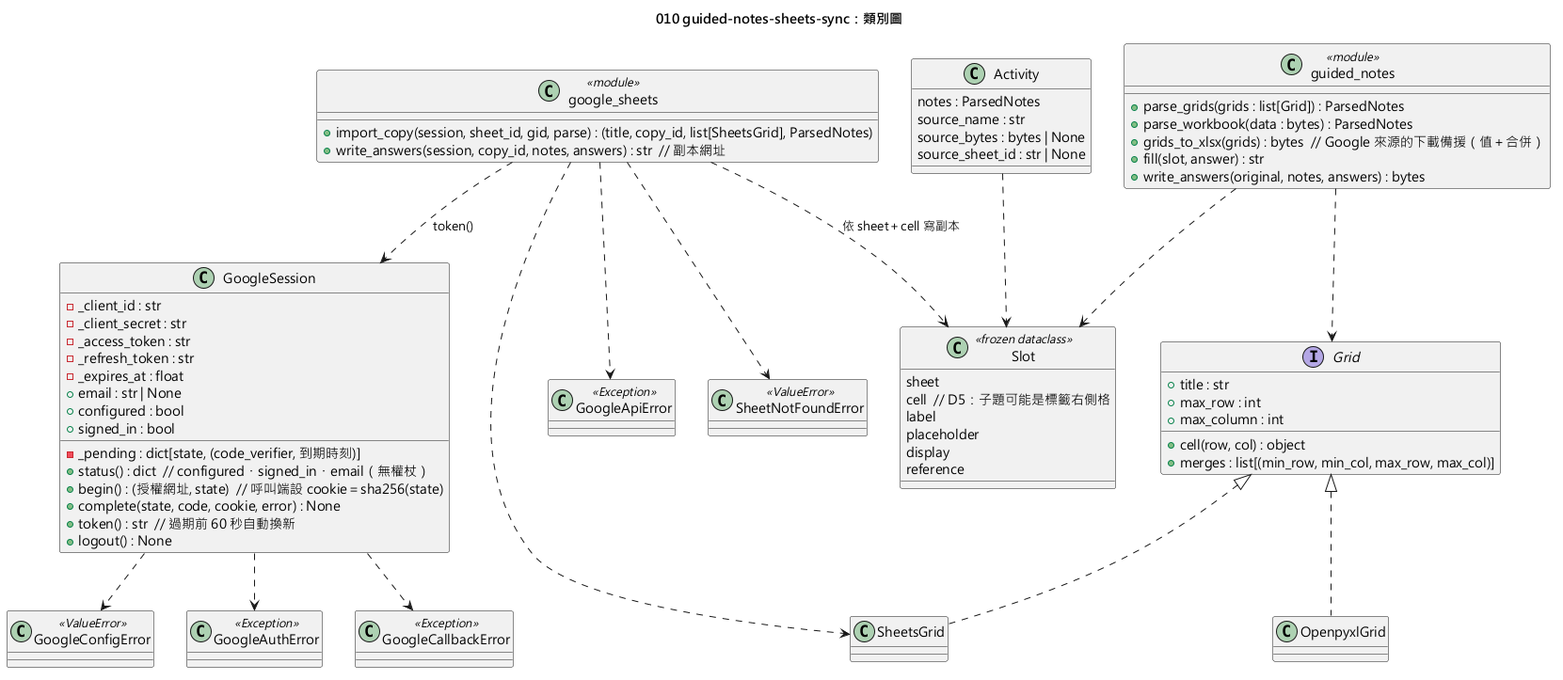
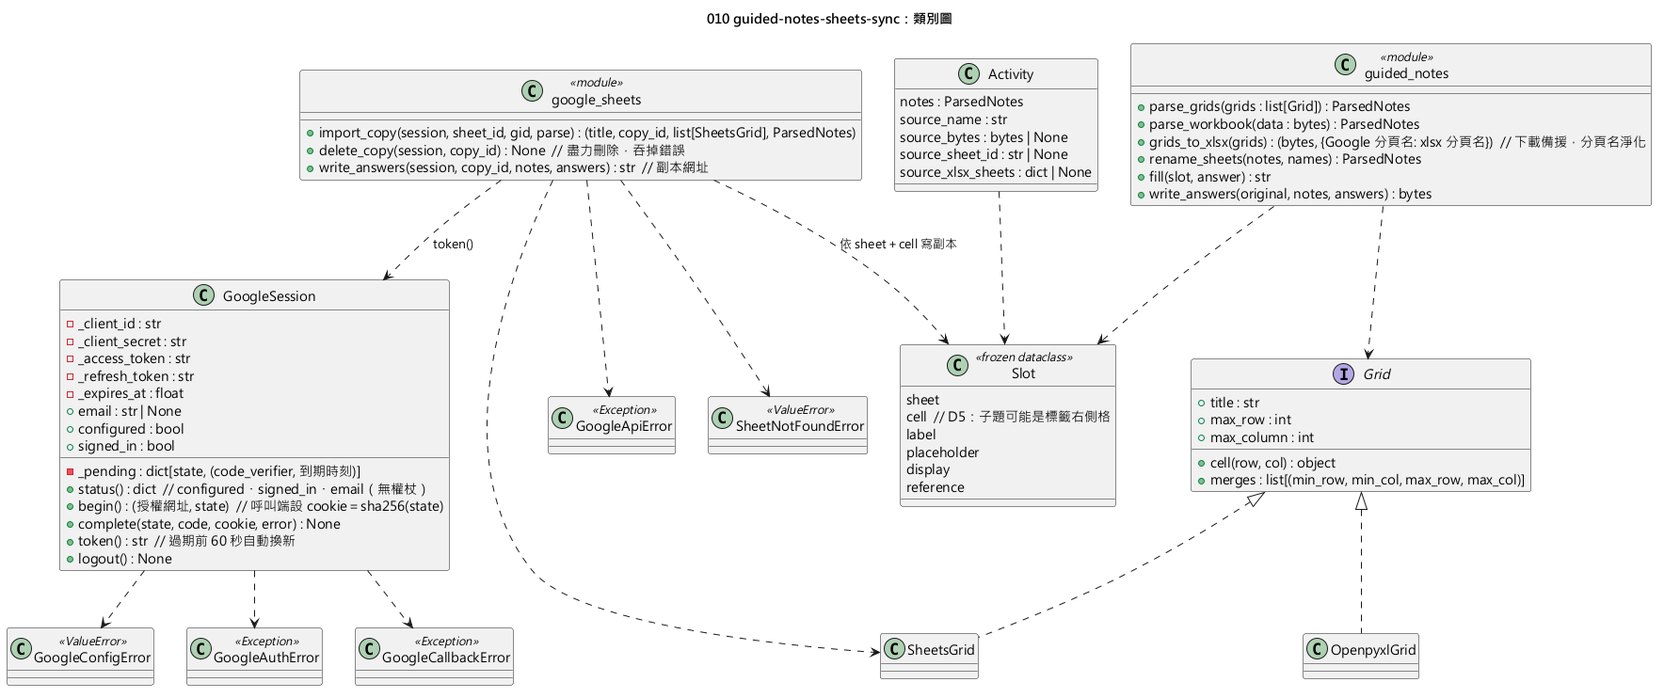
fix(server): [CORE] guided-notes-sheets-sync 實作輪評審藥方
紅隊（CLEARED 0B/1M/1m）＋架構（NOT CLEARED 1B/0M/3m）同抽：Google 分頁名含 / : * ? [ ]
時 xlsx 備援轉檔失敗、整個匯入回 422 並留孤兒副本。

- grids_to_xlsx 淨化分頁名並回傳對照表，下載備援以對照名寫回；寫回 Google 仍用原名
- 副本建立後任何採用前失敗都盡力刪副本（google_sheets.delete_copy）
- .env 以 utf-8-sig 讀（BOM）
- 實作偏離回稿：換新失敗立即 401、gid 複製前檢查；契約、稿、圖同步
- 探針 v1.2 六步重跑皆 OK（probes/results/2026-11-17-google-sheets-v1.2.txt）
- 新回歸測試 5 筆＋變異實錄；make gate 兩組皆綠（266 passed）

diff --git a/server/quiz_server/guided_notes.py b/server/quiz_server/guided_notes.py
@@ -9,7 +9,7 @@ import io
 import re
 import unicodedata
 from collections.abc import Sequence
-from dataclasses import dataclass
+from dataclasses import dataclass, replace
 from typing import Protocol
 
 import openpyxl
@@ -240,12 +240,33 @@ def _parse_sheet(grid: Grid, merged: dict, header: tuple[int, int, int, int | No
     return ParsedNotes(grid.title, questions)
 
 
-def grids_to_xlsx(grids: Sequence[Grid]) -> bytes:
-    """格狀資料轉成只含值與合併的 xlsx（Google 來源的下載備援，guided-notes-sheets-sync D4）。"""
+XLSX_BAD_TITLE = re.compile(r"[\\/:*?\[\]]")
+XLSX_TITLE_MAX = 31
+
+
+def _xlsx_title(title: str, used: set[str]) -> str:
+    """Google 允許、xlsx 不允許的分頁名稱字元換成「_」並截到 31 字；重名加序號（實作輪評審）。"""
+    base = XLSX_BAD_TITLE.sub("_", title).strip("'")[:XLSX_TITLE_MAX] or "工作表"
+    name, n = base, 2
+    while name.lower() in used:
+        suffix = f"_{n}"
+        name, n = base[: XLSX_TITLE_MAX - len(suffix)] + suffix, n + 1
+    used.add(name.lower())
+    return name
+
+
+def grids_to_xlsx(grids: Sequence[Grid]) -> tuple[bytes, dict[str, str]]:
+    """格狀資料轉成只含值與合併的 xlsx（Google 來源的下載備援，guided-notes-sheets-sync D4）。
+
+    回傳 (xlsx, {Google 分頁名: xlsx 分頁名})；寫回 Google 仍用原名，只有下載備援用對照後的名稱。
+    """
     wb = openpyxl.Workbook()
     wb.remove(wb.active)
+    used: set[str] = set()
+    names: dict[str, str] = {}
     for grid in grids:
-        ws = wb.create_sheet(grid.title)
+        names[grid.title] = _xlsx_title(grid.title, used)
+        ws = wb.create_sheet(names[grid.title])
         for row in range(1, grid.max_row + 1):
             for col in range(1, grid.max_column + 1):
                 value = grid.cell(row, col)
@@ -258,7 +279,14 @@ def grids_to_xlsx(grids: Sequence[Grid]) -> bytes:
                            end_row=m.max_row, end_column=m.max_col)
     out = io.BytesIO()
     wb.save(out)
-    return out.getvalue()
+    return out.getvalue(), names
+
+
+def rename_sheets(notes: ParsedNotes, names: dict[str, str]) -> ParsedNotes:
+    """把作答格的分頁名換成 xlsx 備援檔裡的名稱（座標不變）。"""
+    return ParsedNotes(names.get(notes.sheet, notes.sheet), tuple(
+        Question(q.number, tuple(replace(s, sheet=names.get(s.sheet, s.sheet)) for s in q.slots))
+        for q in notes.questions))
 
 
 def fill(slot: Slot, answer: str) -> str:

diff --git a/server/quiz_server/app.py b/server/quiz_server/app.py
@@ -36,7 +36,7 @@ from .google_auth import (
     GoogleSession,
     state_digest,
 )
-from .guided_notes import GuidedNotesError, grids_to_xlsx, parse_grids, write_answers
+from .guided_notes import GuidedNotesError, grids_to_xlsx, parse_grids, rename_sheets, write_answers
 from .phases import Phase, PhaseError
 from .sources import MAX_BYTES, SourceError, check_upload, parse_sheet_url
 from .views import view_for
@@ -242,7 +242,13 @@ def create_app(activity: Activity | None = None, teacher_key: str | None = None,
         act.require_preparing()
         sheet_id, gid = parse_sheet_url(body.url)
         title, copy_id, grids, notes = await google_sheets.import_copy(gs, sheet_id, gid, parse_grids)
-        await act.load_questions(grids_to_xlsx(grids), title, notes=notes, sheet_id=copy_id)
+        try:
+            data, xlsx_sheets = grids_to_xlsx(grids)
+            await act.load_questions(data, title, notes=notes, sheet_id=copy_id, xlsx_sheets=xlsx_sheets)
+        except Exception:
+            # 副本已建立但沒採用（例：等 Google 回應時老師已開始搶答 ⇒ 409）：刪掉，不留孤兒副本
+            await google_sheets.delete_copy(gs, copy_id)
+            raise
         log.info("匯入 Google 試算表副本：%d 題", len(act.questions))
         return {"source": act.source_name, "count": len(act.questions),
                 "sheet_url": google_sheets.sheet_url(copy_id)}
@@ -297,7 +303,8 @@ def create_app(activity: Activity | None = None, teacher_key: str | None = None,
             raise PhaseError("搶答結束後才能匯出")
         if act.notes is None or act.source_bytes is None:
             raise PhaseError("尚未匯入題目")
-        data = write_answers(act.source_bytes, act.notes, results.winning_answers(act))
+        notes = rename_sheets(act.notes, act.source_xlsx_sheets) if act.source_xlsx_sheets else act.notes
+        data = write_answers(act.source_bytes, notes, results.winning_answers(act))
         name = export_filename(act.source_name)
         disposition = f"attachment; filename=\"guided-notes-result.xlsx\"; filename*=UTF-8''{quote(name)}"
         return Response(data, media_type=XLSX_MEDIA, headers={"Content-Disposition": disposition})

diff --git a/server/tests/test_api_google.py b/server/tests/test_api_google.py
@@ -232,3 +232,38 @@ def test_import_error_order(gclient, fake):
     r = gclient.post("/api/teacher/import-url", json={"url": URL}, headers=H)
     assert r.status_code == 401
     assert fake.calls == []
+
+
+@pytest.mark.parametrize("title", ["11/17 學習單", "Q1:Q2", "[備]", "O'Brien"])
+def test_sheet_names_invalid_in_xlsx_still_import(gclient, fake, title):
+    """Google 允許、xlsx 不允許的分頁名稱：匯入、寫回與下載備援都要成功（實作輪紅隊＋架構）。"""
+    fake.sheets[0]["properties"]["title"] = title
+    sign_in(gclient, H)
+    r = gclient.post("/api/teacher/import-url", json={"url": URL}, headers=H)
+    assert r.status_code == 200, r.text
+    _play_and_end(gclient)
+    assert gclient.post("/api/teacher/export-sheet", headers=H).status_code == 200
+    assert fake.writes[0]["data"][0]["range"] == "'" + title.replace("'", "''") + "'!H5"
+    r = gclient.get("/api/teacher/export", headers=H)
+    assert r.status_code == 200
+    import io
+
+    import openpyxl
+    ws = openpyxl.load_workbook(io.BytesIO(r.content)).worksheets[0]
+    assert ws["H5"].value == "CPU" and ws["G5"].value == "（1）"
+    assert fake.deleted == []
+
+
+def test_copy_deleted_when_not_adopted(gclient, fake, activity, monkeypatch):
+    """副本建立後若沒被採用（例：老師已開始搶答 ⇒ 409），要刪除副本，不留孤兒。"""
+    from quiz_server.phases import PhaseError
+
+    sign_in(gclient, H)
+
+    async def boom(*a, **k):
+        raise PhaseError("只能在準備階段操作")
+
+    monkeypatch.setattr(activity, "load_questions", boom)
+    r = gclient.post("/api/teacher/import-url", json={"url": URL}, headers=H)
+    assert r.status_code == 409
+    assert fake.deleted == [COPY_ID]

diff --git a/server/quiz_server/activity.py b/server/quiz_server/activity.py
@@ -122,6 +122,8 @@ class Activity:
         self.source_name: str | None = None
         # Google 來源時為匯入時建立的副本 id（guided-notes-sheets-sync D3）；上傳 xlsx 為 None
         self.source_sheet_id: str | None = None
+        # Google 來源：{Google 分頁名: xlsx 備援檔分頁名}（xlsx 不允許 / : 等字元，實作輪評審）
+        self.source_xlsx_sheets: dict[str, str] | None = None
         self.mode: Mode = MODES[DEFAULT_MODE]
         self.submissions: dict[int, list[Submission]] = {}
         self.judgments: dict[int, dict[str, bool]] = {}  # 題號 → 組別 → 正確否（game-mode-framework D3）
@@ -255,7 +257,7 @@ class Activity:
 
     # ---- 題目 ----
     async def load_questions(self, data: bytes, name: str, notes: ParsedNotes | None = None,
-                             sheet_id: str | None = None) -> None:
+                             sheet_id: str | None = None, xlsx_sheets: dict[str, str] | None = None) -> None:
         """`notes` 已由呼叫端解析時（Google 來源）直接採用；`sheet_id` 為副本 id，上傳 xlsx 為 None。"""
         async with self._lock:
             self._require(Phase.PREPARING)
@@ -264,6 +266,7 @@ class Activity:
             await self._checkpoint()
             self.notes, self.source_bytes, self.source_name = notes, data, name
             self.source_sheet_id = sheet_id
+            self.source_xlsx_sheets = xlsx_sheets
             self.attrs = {q.number: QuestionAttrs() for q in notes.questions}  # 新題目清單：設定歸零
             self._clear_answers()
             await self._bump()

diff --git a/server/quiz_server/google_sheets.py b/server/quiz_server/google_sheets.py
@@ -101,12 +101,19 @@ async def import_copy(session: GoogleSession, sheet_id: str, gid: str | None,
             grids = [SheetsGrid(s) for s in sheets]
             notes = parse(grids)
         except (GuidedNotesError, GoogleApiError):
-            try:
-                await c.request("DELETE", f"{DRIVE}/{copy_id}", headers=_auth(token))
-            except httpx.HTTPError:
-                pass
+            await delete_copy(session, copy_id)
             raise
     return title, copy_id, grids, notes
+
+
+async def delete_copy(session: GoogleSession, copy_id: str) -> None:
+    """盡力刪除匯入失敗留下的副本；任何錯誤都吞掉，不影響原本的錯誤回應。"""
+    try:
+        token = await session.token()
+        async with session.client() as c:
+            await c.request("DELETE", f"{DRIVE}/{copy_id}", headers=_auth(token))
+    except Exception:  # noqa: BLE001, S110 刪副本只是清理，失敗不得蓋掉原錯誤
+        pass
 
 
 def _a1(sheet: str, cell: str) -> str:

diff --git a/server/quiz_server/__main__.py b/server/quiz_server/__main__.py
@@ -17,7 +17,8 @@ def load_env(path: Path = ENV_FILE) -> None:
     """讀 repo 根目錄 `.env`（GOOGLE_CLIENT_ID 等）；不覆蓋既有環境變數（guided-notes-sheets-sync D1）。"""
     if not path.is_file():
         return
-    for line in path.read_text(encoding="utf-8").splitlines():
+    # utf-8-sig：Windows 編輯器存的 .env 可能帶 BOM，否則第一個變數會被略過（實作輪評審）
+    for line in path.read_text(encoding="utf-8-sig").splitlines():
         m = ENV_LINE.match(line)
         if m and m.group(1) not in os.environ:
             os.environ[m.group(1)] = m.group(2).strip('"').strip("'")

diff --git a/specs/010-guided-notes-sheets-sync/research.md b/specs/010-guided-notes-sheets-sync/research.md
@@ -1,17 +1,19 @@
 # Research: 010 guided-notes-sheets-sync（v1.2）
 
-知識時點：2026-11-17。倉外行為探針：`probes/google_sheets_probe.py`，原樣輸出 `probes/results/2026-11-17-google-sheets.txt`（負責人帳號、「題組＋單題」範本在負責人雲端硬碟的副本、試算表 id 遮蔽；登入、讀取、複製、寫入四步皆 OK）。v1.2 新增的 `openid email`、換新、撤銷三步待負責人重跑探針後回填（tasks T004）。本檔 R1–R7 與 OpenSpec 組 `openspec/changes/guided-notes-sheets-sync/design.md` D1–D7 一一對應、口徑相同。
+知識時點：2026-11-17。倉外行為探針：`probes/google_sheets_probe.py`，原樣輸出 `probes/results/2026-11-17-google-sheets.txt`（負責人帳號、「題組＋單題」範本在負責人雲端硬碟的副本、試算表 id 遮蔽；登入、讀取、複製、寫入四步皆 OK）。v1.2 新增的 `openid email`、換新、撤銷三步已重跑，原樣輸出 `probes/results/2026-11-17-google-sheets-v1.2.txt`（六步皆 OK）。本檔 R1–R7 與 OpenSpec 組 `openspec/changes/guided-notes-sheets-sync/design.md` D1–D7 一一對應、口徑相同。
 
 **v1.2（提案輪評審，紅隊＋架構雙通道，皆 CLEARED 0 阻斷）**：架構——`prompt=consent` 未寫進稿、`openid email`／換新／撤銷未探針（R1）；匯入後原檔被改、匯出時才複製會用舊座標寫錯格（R3，兩通道同抽）；兩組口徑缺分頁名跳脫、錯誤碼先後（R3、R7）；R-05「原 Guided Notes」的解讀未落需求（R4）；「框線相同」無探針。紅隊——state 未綁瀏覽器（R1）；撤銷權杖放網址、回呼回顯參數（R1、R6）；`formattedValue` 讀題號與 xlsx 不等價（R2）。**負責人 2026-11-17 裁**：匯入時就複製；加 cookie 綁定；契約改動批准；副本名稱、R5 套 xlsx 路徑照傾向。
+
+**實作輪評審（紅隊 CLEARED、架構 NOT CLEARED 1 阻斷，藥方已落）**：Google 分頁名含 `/ : * ? [ ]` 時 xlsx 備援轉檔失敗、整個匯入回 422 並留孤兒副本（兩通道同抽）⇒ R4 備援檔分頁名淨化＋對照、R3 副本未被採用即刪；實作偏離回稿：R1 換新失敗立即設為未登入、R3 gid 檢查提前到複製前；`.env` 以 utf-8-sig 讀（R1）。
 
 背景：現行連結匯入 `server/quiz_server/sources.py:39`「`out = f"https://docs.google.com/spreadsheets/d/{m.group(1)}/export?format=xlsx"`」下載 xlsx 後以 openpyxl 解析；匯出 `server/quiz_server/app.py:220`「`data = write_answers(act.source_bytes, act.notes, results.winning_answers(act))`」產生 xlsx，老師手動「取代試算表」。課程補充說明判此路不符。
 
 ## R1 認證：OAuth 2.0 授權碼流程＋PKCE，網頁應用程式用戶端，cookie 綁定
 
-- **Decision**：重新導向 URI 固定 `http://127.0.0.1:8000/api/google/callback`；`GOOGLE_CLIENT_ID`、`GOOGLE_CLIENT_SECRET` 只經環境變數（`__main__.py` 啟動時讀 repo 根目錄 `.env`，不覆蓋既有環境變數），未設定時 Google 功能停用、xlsx 備援照常。`POST /api/teacher/google/login`（需老師金鑰）產生一次性 `state`（`secrets.token_urlsafe(32)`）與 PKCE `code_verifier`（S256），有效 10 分鐘；回 `{url}` 並設 cookie `qz_gstate`＝`sha256(state)` 十六進位（`HttpOnly`、`SameSite=Lax`、`Path=/api/google`、`Max-Age=600`）。授權網址帶 `access_type=offline`、**`prompt=consent`**（Google 只在顯示同意畫面時發 refresh token）。`GET /api/google/callback` 不需老師金鑰，`state` 須為伺服器發出、未過期、未用過，且 `sha256(state)` 等於 cookie；任一不符或帶 `error` ⇒ 400 固定文案、`state` 作廢；成功回固定文案「登入完成，可關閉此分頁」並清 cookie，**不回顯任何查詢參數**。權杖只存 `GoogleSession`；過期前 60 秒換新；沒有 refresh token 或換新失敗 ⇒ 過期後 401「Google 登入已過期，請重新登入」並設未登入。email 取自 `id_token` 酬載。登出 `POST https://oauth2.googleapis.com/revoke`，**權杖放表單本體**，失敗也清空本機。權限範圍 `openid email https://www.googleapis.com/auth/spreadsheets https://www.googleapis.com/auth/drive`。
+- **Decision**：重新導向 URI 固定 `http://127.0.0.1:8000/api/google/callback`；`GOOGLE_CLIENT_ID`、`GOOGLE_CLIENT_SECRET` 只經環境變數（`__main__.py` 啟動時讀 repo 根目錄 `.env`，不覆蓋既有環境變數），未設定時 Google 功能停用、xlsx 備援照常。`POST /api/teacher/google/login`（需老師金鑰）產生一次性 `state`（`secrets.token_urlsafe(32)`）與 PKCE `code_verifier`（S256），有效 10 分鐘；回 `{url}` 並設 cookie `qz_gstate`＝`sha256(state)` 十六進位（`HttpOnly`、`SameSite=Lax`、`Path=/api/google`、`Max-Age=600`）。授權網址帶 `access_type=offline`、**`prompt=consent`**（Google 只在顯示同意畫面時發 refresh token）。`GET /api/google/callback` 不需老師金鑰，`state` 須為伺服器發出、未過期、未用過，且 `sha256(state)` 等於 cookie；任一不符或帶 `error` ⇒ 400 固定文案、`state` 作廢；成功回固定文案「登入完成，可關閉此分頁」並清 cookie，**不回顯任何查詢參數**。權杖只存 `GoogleSession`；過期前 60 秒換新；沒有 refresh token ⇒ 過期後 401「Google 登入已過期，請重新登入」並設未登入；換新失敗 ⇒ 立即 401 並設未登入（實作偏離回稿）。`.env` 以 utf-8-sig 讀（可能帶 BOM）。email 取自 `id_token` 酬載。登出 `POST https://oauth2.googleapis.com/revoke`，**權杖放表單本體**，失敗也清空本機。權限範圍 `openid email https://www.googleapis.com/auth/spreadsheets https://www.googleapis.com/auth/drive`。
 - **Rationale**：負責人裁定 OAuth 與 cookie 綁定；cookie 擋「看到投影授權網址的人用自己帳號先完成授權」的登入 CSRF；回呼不導回含老師金鑰的網址、不回顯參數，避免金鑰外洩與反射型 XSS。
 - **Alternatives**：服務帳號（負責人不採）；`google-auth-oauthlib`（不採，屬取捨：沿用既有 httpx 與 `MockTransport` 替身測法、兩組程式逐字相同較易維持）。
-- **證偽欄｜可證偽**：探針步驟 1「回呼 state 相符：True」「換權杖 HTTP 200；有 refresh_token：True；scope：https://www.googleapis.com/auth/drive https://www.googleapis.com/auth/spreadsheets；expires_in：3599」（探針已帶 `prompt=consent`）。另實測：帳號不在測試使用者名單時 Google 不導回回呼，故 `state` 須自帶過期。待重跑：`id_token` 含 email、refresh 換新 200、撤銷 200（T004）。
+- **證偽欄｜可證偽**：探針步驟 1「回呼 state 相符：True」「換權杖 HTTP 200；有 refresh_token：True；scope：https://www.googleapis.com/auth/drive https://www.googleapis.com/auth/spreadsheets；expires_in：3599」（探針已帶 `prompt=consent`）。另實測：帳號不在測試使用者名單時 Google 不導回回呼，故 `state` 須自帶過期。v1.2 三步已重跑（`probes/results/2026-11-17-google-sheets-v1.2.txt`）：「id_token 有 email：True」；「5 換新：HTTP 200；有 access_token：True；新 token 與舊不同：True」；「6 撤銷：HTTP 200」「撤銷後再換新：HTTP 400；error：invalid_grant」（權杖放表單本體）；scope 回應含 `userinfo.email openid`。
 
 ## R2 讀取：Sheets API 格狀資料 → Grid → 既有解析
 
@@ -20,14 +22,14 @@
 
 ## R3 複製與寫回：匯入時就複製，解析與寫入都對同一份副本
 
-- **Decision**：**匯入時**①讀原試算表標題 ②Drive `POST https://www.googleapis.com/drive/v3/files/{id}/copy`，名稱「<原標題>-搶答結果」③對**副本**做 R2 讀取與解析 ④解析失敗 ⇒ 盡力刪除副本並回 400。成功 ⇒ `source_sheet_id`＝副本 id、匯入回應帶 `sheet_url`。**匯出時** `POST …/spreadsheets/{copyId}/values:batchUpdate`，`valueInputOption=RAW`，每格 `{range: "'<分頁>'!<A1>", values: [[文字]]}`，分頁名中的 `'` 以 `''` 跳脫；座標取自解析同一份副本時記下的 `Slot.cell`。只在 `ended`；回 `{url}`。原試算表只在匯入時讀標題與複製各一次。重新匯入再複製一份新副本，舊副本不刪。
+- **Decision**：**匯入時**①讀原試算表標題與各分頁 `sheetId`，連結的 `gid` 不存在 ⇒ 400 且不建立副本（實作偏離回稿）②Drive `POST https://www.googleapis.com/drive/v3/files/{id}/copy`，名稱「<原標題>-搶答結果」③對**副本**做 R2 讀取與解析 ④解析失敗 ⇒ 盡力刪除副本並回 400；解析成功但副本未被採用（例：老師已開始搶答 ⇒ 409）同樣盡力刪除副本（實作輪評審）。成功 ⇒ `source_sheet_id`＝副本 id、匯入回應帶 `sheet_url`。**匯出時** `POST …/spreadsheets/{copyId}/values:batchUpdate`，`valueInputOption=RAW`，每格 `{range: "'<分頁>'!<A1>", values: [[文字]]}`，分頁名中的 `'` 以 `''` 跳脫；座標取自解析同一份副本時記下的 `Slot.cell`。只在 `ended`；回 `{url}`。原試算表只在匯入時讀標題與複製各一次。重新匯入再複製一份新副本，舊副本不刪。
 - **Rationale**：負責人裁定；與 xlsx 路徑「寫回匯入快照」語意一致，原檔在匯入後被改不會讓答案錯位。
 - **Alternatives**：匯出時才複製並重讀核對（不採：老師改過原檔就匯不出）；Sheets `create`＋`sheets.copyTo`（探針可行但分頁名被改、只帶單一分頁，留作日後須發布時的退路）。
 - **證偽欄｜可證偽**：探針步驟 3「3A Drive files.copy：HTTP 200」「副本 … 合併與原檔相同：True」；步驟 4「副本讀回：'=1+1'」。`test_google_sheets.py`：匯入請求序「標題 → copy → 讀副本」、寫回只打副本 id、原檔 id 匯入後 0 次請求、分頁名含 `'` 的範圍跳脫。**屬取捨**：每次匯入都多一份副本；匯入後改原檔不反映（須重新匯入）；搶答期間手改副本版面仍可能錯位（殘餘風險，README 提示）；`drive` 受限範圍「測試中」實測可用。
 
 ## R4 來源與備援
 
-- **Decision**：匯入 ①「從 Google 試算表匯入」（需登入，R2＋R3）②上傳 xlsx（不變）；刪除 `export_url`、`download_sheet`。匯出：Google 來源 ⇒「匯出到 Google 試算表」＋「下載 xlsx（備援，不含格式）」（由副本格狀資料轉成的工作簿，只含值與合併）；上傳來源 ⇒ 只有「下載 xlsx」，寫回 Google 試算表回 409。R-05「匯出至原 Guided Notes」解讀：負責人裁「先複製再寫」，副本為原 Guided Notes 的完整複本，視為達成 R-05，同批寫進 `docs/requirements.md` §4；`eval/acceptance/matrix.yaml` M-006 聲明分路徑寫。
+- **Decision**：匯入 ①「從 Google 試算表匯入」（需登入，R2＋R3）②上傳 xlsx（不變）；刪除 `export_url`、`download_sheet`。匯出：Google 來源 ⇒「匯出到 Google 試算表」＋「下載 xlsx（備援，不含格式）」（由副本格狀資料轉成的工作簿，只含值與合併；xlsx 不允許的分頁名稱字元 `\ / : * ? [ ]` 換成「_」、截到 31 字、重名加序號，對照表存 `Activity.source_xlsx_sheets`，寫回 Google 仍用原名——實作輪評審）；上傳來源 ⇒ 只有「下載 xlsx」，寫回 Google 試算表回 409。R-05「匯出至原 Guided Notes」解讀：負責人裁「先複製再寫」，副本為原 Guided Notes 的完整複本，視為達成 R-05，同批寫進 `docs/requirements.md` §4；`eval/acceptance/matrix.yaml` M-006 聲明分路徑寫。
 - **證偽欄｜屬取捨**：公開連結下載正是課程補充說明點名的做法；xlsx 只當網路或授權失敗時的備援。
 
 ## R5 題組子題填空格（PR #18 followup，負責人裁定併入本卡）

diff --git a/contracts/api.md b/contracts/api.md
@@ -33,13 +33,13 @@
 | `POST /api/teacher/release` | 老師 | `{team}` | `{released}`；撤銷該組憑證（組隊時撤銷該組全部裝置、清草稿，並換新邀請碼——新碼只在老師 view；team-mode 語意補充） | 401；404 |
 | `POST /api/teacher/team-play` | 老師 | `{enabled}` | `{team_play}`；值改變時撤銷所有組別憑證、邀請碼與草稿，值不變不動；重置保留（team-mode） | 401；409 非 preparing；422 格式錯誤 |
 | `POST /api/teacher/import` | 老師 | `multipart/form-data`，欄位 `file`（.xlsx，≤5 MB） | `{source, count}`；取代題目並清空作答 | 400 檔案或格式不符；401；409 非 preparing |
-| `POST /api/teacher/import-url` | 老師 | `{url}`（`https://docs.google.com/spreadsheets/d/<id>/…`；須已以 Google 帳號登入） | `{source, count, sheet_url}`：先以 Drive 複製一份「<原標題>-搶答結果」，再以 Sheets API 讀取並解析**副本**；`sheet_url` 為副本連結（guided-notes-sheets-sync 語意改變，負責人 2026-11-17 批准） | 依序：401 老師金鑰；409 非 preparing；400 連結不符、分頁不存在或解析錯誤（解析錯誤時盡力刪除副本）；401「請先以 Google 帳號登入」「Google 登入已過期，請重新登入」；502 Google 錯誤。登入檢查前不發任何對外請求 |
+| `POST /api/teacher/import-url` | 老師 | `{url}`（`https://docs.google.com/spreadsheets/d/<id>/…`；須已以 Google 帳號登入） | `{source, count, sheet_url}`：先以 Drive 複製一份「<原標題>-搶答結果」，再以 Sheets API 讀取並解析**副本**；`sheet_url` 為副本連結（guided-notes-sheets-sync 語意改變，負責人 2026-11-17 批准） | 依序：401 老師金鑰；409 非 preparing；400 連結不符、分頁不存在（不建立副本）或解析錯誤；401「請先以 Google 帳號登入」「Google 登入已過期，請重新登入」；502 Google 錯誤。登入檢查前不發任何對外請求；副本建立後任何失敗都盡力刪除副本 |
 | `POST /api/teacher/export-sheet` | 老師 | — | `{url}`：把得主答案以 `RAW` 寫入匯入時建立的副本（分頁名中的 `'` 以 `''` 跳脫），原試算表不動（guided-notes-sheets-sync） | 依序：401 老師金鑰；409「搶答結束後才能匯出」「尚未匯入題目」「題目不是從 Google 試算表匯入，請改用下載 xlsx」；401 Google 未登入／已過期；502 Google 錯誤 |
 | `GET /api/teacher/google` | 老師 | — | `{configured, signed_in, email}`（不含任何權杖；guided-notes-sheets-sync） | 401 |
 | `POST /api/teacher/google/login` | 老師 | — | `{url}`（Google 授權網址：授權碼＋PKCE S256、`access_type=offline`、`prompt=consent`、scope `openid email spreadsheets drive`）；設 cookie `qz_gstate`＝`sha256(state)`（`HttpOnly`、`SameSite=Lax`、`Path=/api/google`、10 分鐘） | 401；400「伺服器未設定 Google OAuth 用戶端」 |
 | `GET /api/google/callback?code&state` | 任何人（以 `state`＋cookie 綁定發起登入的老師瀏覽器） | — | HTML「登入完成，可關閉此分頁」；清 cookie | 400 HTML「登入失敗，請回老師頁重新登入」：`state` 非伺服器發出、過期、已用過、cookie 不符或帶 `error`；回應不回顯任何查詢參數 |
 | `POST /api/teacher/google/logout` | 老師 | — | `{signed_in: false}`；以表單本體向 Google 撤銷權杖（失敗也清空本機） | 401 |
-| `GET /api/teacher/export` | 老師 | — | xlsx 檔（原 Guided Notes，得主答案寫入作答格、一律為文字；題目來自 Google 試算表時為副本的值與合併、不含格式，作下載備援——guided-notes-sheets-sync）；`Content-Disposition` 含 `filename*=UTF-8''<原檔名>-搶答結果.xlsx` | 401；409 非 ended 或尚未匯入 |
+| `GET /api/teacher/export` | 老師 | — | xlsx 檔（原 Guided Notes，得主答案寫入作答格、一律為文字；題目來自 Google 試算表時為副本的值與合併、不含格式，作下載備援；xlsx 不允許的分頁名稱字元 `\ / : * ? [ ]` 換成「_」——guided-notes-sheets-sync）；`Content-Disposition` 含 `filename*=UTF-8''<原檔名>-搶答結果.xlsx` | 401；409 非 ended 或尚未匯入 |
 | `POST /api/teacher/start` | 老師 | — | `{phase}` | 401；409 階段不符或尚未匯入題目 |
 | `POST /api/teacher/end` | 老師 | — | `{phase}`（判定模式為 `judging`，經典與時間計分為 `ended`） | 401；409 非 answering，或時間計分尚有未揭曉的題目 |
 | `POST /api/teacher/question-settings` | 老師 | `{question, multiplier?, time_limit?}`（倍率 1 或 2；時限 5–120 秒；至少一欄，只給一欄時另一欄不動——mode-timed-scoring 語意補充） | `{question, multiplier, time_limit}`；重新匯入清除、重置保留 | 401；404 題號不存在；409 非 preparing；422 值超出範圍或兩欄皆無 |

diff --git a/specs/010-guided-notes-sheets-sync/contracts/README.md b/specs/010-guided-notes-sheets-sync/contracts/README.md
@@ -10,7 +10,7 @@
 | `POST /api/teacher/google/login` | `{url}`，設 cookie `qz_gstate` | 401；400「伺服器未設定 Google OAuth 用戶端」 |
 | `GET /api/google/callback?code&state`（不需老師金鑰） | HTML「登入完成，可關閉此分頁」 | 400 HTML「登入失敗，請回老師頁重新登入」（state 不符／過期／重放／cookie 不符／帶 error；不回顯參數） |
 | `POST /api/teacher/google/logout` | `{signed_in: false}` | 401 |
-| `POST /api/teacher/import-url` `{url}`（語意改變：需登入、匯入時複製後讀副本） | `{source, count, sheet_url}` | 401；409 非 preparing；400 連結不符／分頁不存在／解析錯誤；401「請先以 Google 帳號登入」「Google 登入已過期，請重新登入」；502 |
+| `POST /api/teacher/import-url` `{url}`（語意改變：需登入、匯入時複製後讀副本） | `{source, count, sheet_url}` | 401；409 非 preparing；400 連結不符／分頁不存在（不建立副本）／解析錯誤；401「請先以 Google 帳號登入」「Google 登入已過期，請重新登入」；502；副本建立後任何失敗都盡力刪除副本 |
 | `POST /api/teacher/export-sheet` | `{url}` | 401；409「搶答結束後才能匯出」「尚未匯入題目」「題目不是從 Google 試算表匯入，請改用下載 xlsx」；401 Google 未登入／過期；502 |
 
-**不變**：`POST /api/teacher/import`（上傳 xlsx）、`GET /api/teacher/export`（下載 xlsx；Google 來源時只含值與合併）。老師與學生 view 不增欄位。
+**不變**：`POST /api/teacher/import`（上傳 xlsx）、`GET /api/teacher/export`（下載 xlsx；Google 來源時只含值與合併，xlsx 不允許的分頁名稱字元換成「_」）。老師與學生 view 不增欄位。

diff --git a/specs/010-guided-notes-sheets-sync/verification.md b/specs/010-guided-notes-sheets-sync/verification.md
@@ -20,15 +20,15 @@
 | sequence | 匯入：require_preparing → 解析 id → 原檔標題 → files.copy → 讀副本 → 解析；失敗刪副本 | `app.import_url`、`google_sheets.import_copy`；`test_import_copies_first_then_reads_the_copy`、`test_parse_failure_deletes_copy` | 一致 |
 | sequence | 寫回：非 ended 409 → batchUpdate（副本、RAW、`'` 跳脫）→ `{url}` | `app.export_sheet`、`google_sheets.write_answers`；`test_write_targets_only_the_copy_with_raw`、`test_sheet_name_quote_is_escaped` | 一致 |
 
-偏離：實作中把類別圖的 `begin()` 回傳、`import_copy` 參數與回傳、例外類別、`grids_to_xlsx` 依程式補齊（圖改，行為不變）。
+偏離：①實作中把類別圖的 `begin()` 回傳、`import_copy` 參數與回傳、例外類別、`grids_to_xlsx` 依程式補齊（圖改，行為不變）；②實作輪評審後：R1 換新失敗立即 401、R3 gid 複製前檢查與副本未被採用即刪、R4 備援 xlsx 分頁名淨化——已回改 research 並同步改類別圖（`grids_to_xlsx` 回傳對照表、`rename_sheets`、`delete_copy`、`source_xlsx_sheets`）與時序圖（`import_copy` 四參數、gid 400 不建副本、採用失敗刪副本）。
 
 ## 門禁（`make gate`，退出碼 0）
 
 ```
 All checks passed!
 All checks passed!
-261 passed, 1 warning in 27.83s
-58 passed in 7.13s
+266 passed, 1 warning in 15.66s
+58 passed in 6.26s
  Test Files  8 passed (8)
       Tests  38 passed (38)
 gate-zh-hant: 0 處簡體字

diff --git a/specs/010-guided-notes-sheets-sync/tasks.md b/specs/010-guided-notes-sheets-sync/tasks.md
@@ -8,7 +8,7 @@
 - [x] T001 探針 `probes/google_sheets_probe.py` 原樣輸出 `probes/results/2026-11-17-google-sheets.txt`（四步皆 OK）
 - [x] T002 三張圖 `make diagrams`、`make gate-diagrams` 綠
 - [x] T003 提案輪評審（紅隊＋架構雙通道，1 輪，與 OpenSpec 組同批，皆 CLEARED 0 阻斷）；藥方併入 v1.2；負責人 2026-11-17 裁定並批准契約（R7）
-- [ ] T004 探針補 `openid email`、refresh 換新、撤銷（表單本體）三步；負責人重跑，輸出存 `probes/results/`，回填 R1 證偽欄
+- [x] T004 探針補 `openid email`、refresh 換新、撤銷（表單本體）三步；負責人重跑，輸出存 `probes/results/`，回填 R1 證偽欄
 
 ## Phase 1: User Story 1 - Google 登入 (P1) 🎯
 

diff --git a/specs/010-guided-notes-sheets-sync/data-model.md b/specs/010-guided-notes-sheets-sync/data-model.md
@@ -11,6 +11,7 @@
 | `Slot`（改語意） | `cell`、`label` | R5：子題可為標籤右側格，此時 `label=""`、`display` 取標籤格文字 |
 | `Activity`（增） | `source_sheet_id: str \| None` | 匯入時建立的副本 id；上傳 xlsx 為 `None`；重新匯入覆寫 |
 | `Activity`（改） | `source_bytes: bytes \| None` | Google 來源時為副本格狀資料轉成的 xlsx（只含值與合併），供下載備援 |
+| `Activity`（增） | `source_xlsx_sheets: dict[str, str] \| None` | Google 分頁名 → xlsx 備援檔分頁名（淨化 `\ / : * ? [ ]`） |
 | `GoogleAuthError`（新） | — | API 層轉 401 |
 | `GoogleApiError`（新） | — | API 層轉 502，只帶 Google 錯誤 `status` |
 
